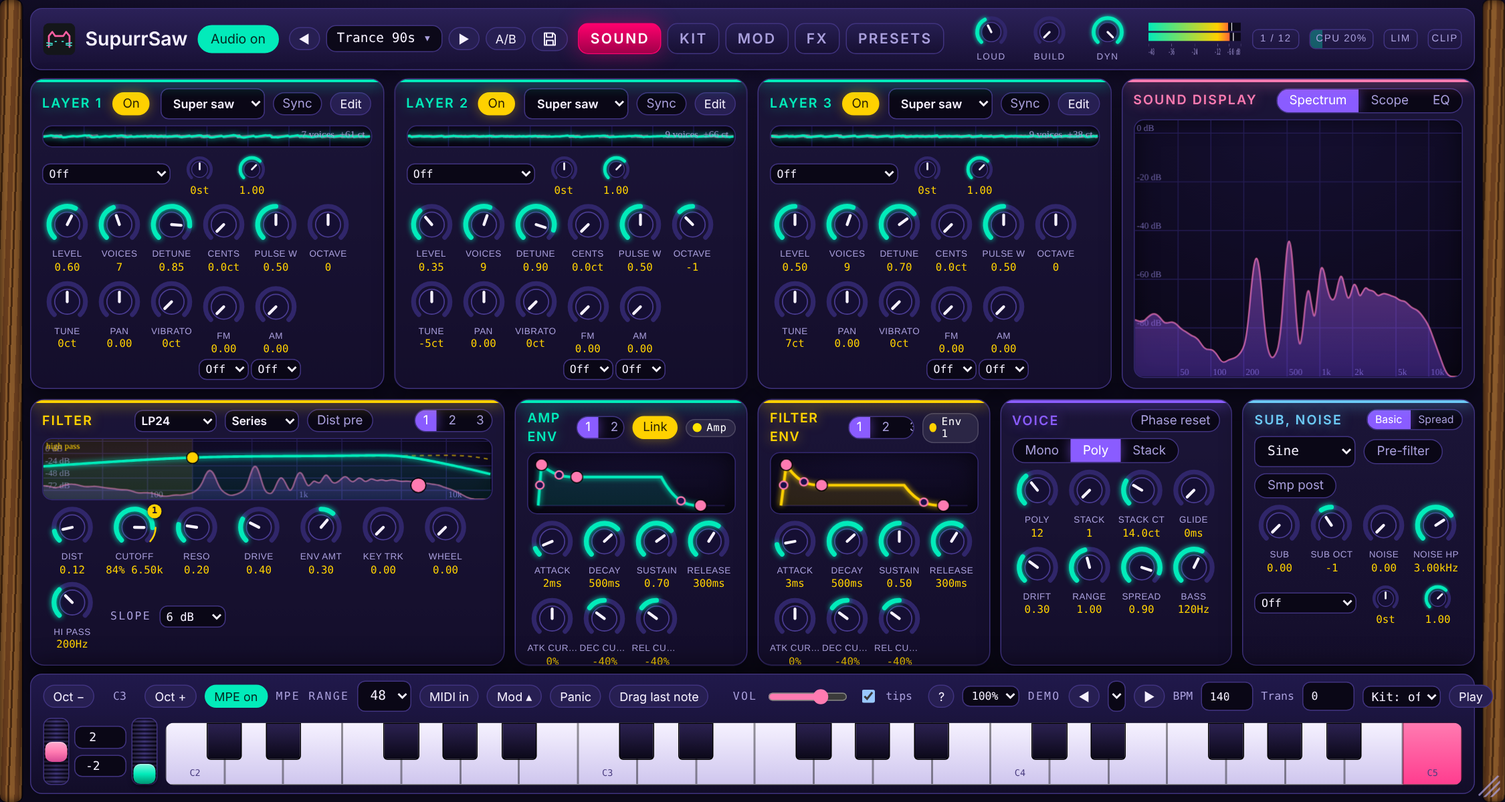
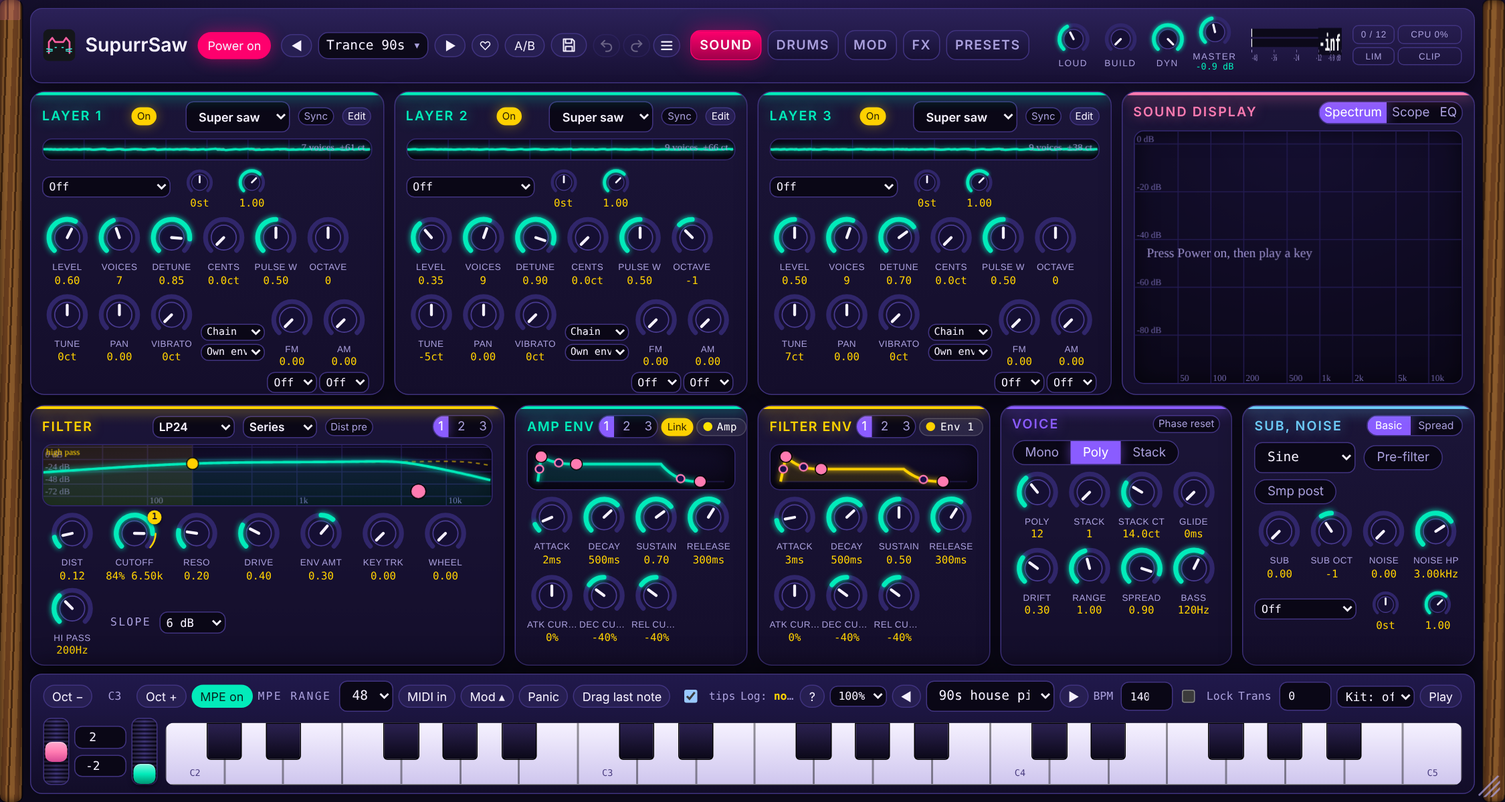
Layer routing: each layer to filter 1, 2, 3, none or the chain, and its own pick of amp envelope; refreshed screenshot
Claude-Session: https://claude.ai/code/session_015F85RWM9RCbLtwwXZANyrz

diff --git a/ui/supurrsaw-playground.html b/ui/supurrsaw-playground.html
@@ -383,7 +383,7 @@ function blep(t, dt) {
   return 0;
 }
 function defaultLayer() {
-  return { on: true, wave: "Off", instrument: "", level: 0.7, voices: 7, detune: 0.4, pwm: 0.5, octave: 0, tune: 0, pan: 0, sync: false, syncSemis: 7, syncEnv: 0, syncLfo: 0, syncKey: 0, syncWheel: 0, cents: 0, lfoPitchCents: 0, fmSrc: 0, fmAmt: 0, amSrc: 0, amAmt: 0, smp: "Off", smpPitch: 0, smpVol: 1 };
+  return { on: true, dest: 0, ampSel: 0, wave: "Off", instrument: "", level: 0.7, voices: 7, detune: 0.4, pwm: 0.5, octave: 0, tune: 0, pan: 0, sync: false, syncSemis: 7, syncEnv: 0, syncLfo: 0, syncKey: 0, syncWheel: 0, cents: 0, lfoPitchCents: 0, fmSrc: 0, fmAmt: 0, amSrc: 0, amAmt: 0, smp: "Off", smpPitch: 0, smpVol: 1 };
 }
 const MX_SRC = ["lfo", "fenv", "aenv", "penv", "whl", "key", "vel", "rnd", "men", "lfo2", "lfo3", "fenv2", "fenv3", "men2", "men3", "prs", "sld", "bnd"];
 const MX_DST = ["pitch", "cut", "res", "drv", "pwm", "det", "pan", "vol", "sy1", "sy2", "sy3", "sub", "nz", "lc", "cut2", "cut3", "rvb", "dly", "drs", "clip", "hpf", "lpf", "wid"];
@@ -822,7 +822,7 @@ function newVoice() {
   return { active: false, note: 60, vel: 1, age: 0, ch: 0, bend: 0, press: 0, slide: 0, phase: [new Float64Array(kMaxSaws), new Float64Array(kMaxSaws), new Float64Array(kMaxSaws)], syncPhase: [0, 0, 0],
     noiseHp: 0, noiseHp2: 0, subPhase: 0, subPh: new Float64Array(5), nzS: new Float64Array(20), drift: new Float64Array(kMaxSaws), driftT: new Float64Array(kMaxSaws), lfoPhase: 0, t: 0, ctr: 0, lfoC: 0, pEnv: 0, pcC: [1, 1, 1], psC: [0, 0, 0], fC: [440, 440, 440], cc: [1000, 1000, 1000], laC: 0.01, lyOut: [0, 0, 0], fmSubPh: 0, gl: 0, stackCents: 0, stackGain: 1, rnd: 0, sh: 0, sh0: 0,
     ax2: [new AuxF(), new AuxF()], lp2: [0, 0], sa: [0, 0], sb: [0, 0], lc2: [0, 0], rs: 1, zs: [null, null, null], zn: [-1, -1, -1], spos: [0, 0, 0], sp: [0, 0, 0, 0], sq: [1, 1, 1, 1], svL: new Float64Array(MX_NS),
-    ax: new Float64Array(8), bw: new Float64Array(40), bwz: new Float64Array(32), bwF: -1, bwN: 0, bwH: false, hcC: 0.9, amp: new Env(), amp2: new Env(), amp3: new Env(), fenv: new Env(), fenv2: new Env(), fenv3: new Env(), fl: [new Filter(), new Filter(), new Filter()], fr: [new Filter(), new Filter(), new Filter()], hpL: 0, hpR: 0 };
+    ax: new Float64Array(8), bw: new Float64Array(40), bwz: new Float64Array(32), bwF: -1, bwN: 0, bwH: false, hcC: 0.9, amp: new Env(), amp2: new Env(), amp3: new Env(), fenv: new Env(), fenv2: new Env(), fenv3: new Env(), fl: [new Filter(), new Filter(), new Filter()], fr: [new Filter(), new Filter(), new Filter()], fl2: [new Filter(), new Filter(), new Filter()], fr2: [new Filter(), new Filter(), new Filter()], ax3: [new AuxF(), new AuxF()], bL: new Float64Array(5), bR: new Float64Array(5), hpL: 0, hpR: 0 };
 }
 function lfoRnd(v) { v.rs = (Math.imul(v.rs, 1664525) + 1013904223) >>> 0; return (v.rs >>> 8) / 16777216 * 2 - 1; }
 function lfoWave(sh, ph, cur, prev) {
@@ -994,6 +994,7 @@ class SupurrEngine {
     for (let ly = 0; ly < kLayers; ly++) { const q = p.layers[ly]; if (q.on === false || q.wave === "Off" || q.level <= 0) continue;
       if (q.fmAmt > 0 && q.fmSrc >= 1 && q.fmSrc <= 3) used[q.fmSrc - 1] = true; if (q.amAmt > 0 && q.amSrc >= 1 && q.amSrc <= 3) used[q.amSrc - 1] = true;
       if ((q.fmAmt > 0 && q.fmSrc === 4) || (q.amAmt > 0 && q.amSrc === 4)) anySub = true; if ((q.fmAmt > 0 && q.fmSrc === 5) || (q.amAmt > 0 && q.amSrc === 5)) anyNz = true; }
+    let usedD = 0; for (let ly = 0; ly < kLayers; ly++) { const lq = p.layers[ly]; if ((lq.dest | 0) !== 0 && lq.on !== false && (lq.wave !== "Off" || lq.smp !== "Off")) usedD |= 1 << (lq.dest | 0); }
     const dk = 1 + p.dist * 14, dnm = 1 / Math.tanh(dk * 0.6), modes = [p.filterMode, p.f2Mode, p.f3Mode], parallel = p.fRoute === 1, post = !!p.smpPost;
     const lfoS = [p.lfoShape, p.lfo2Shape, p.lfo3Shape];
     for (let i = 0; i < n; i++) {
@@ -1024,15 +1025,15 @@ class SupurrEngine {
         for (let k = 0; k < mxl.length; k += 3) md[mxl[k + 1]] += sv[mxl[k]] * mxl[k + 2];
         if (i === n - 1) v.svL.set(sv);
       }
-      let L = 0, R = 0, smL = 0, smR = 0;
+      let L = 0, R = 0, smL = 0, smR = 0; const bL = v.bL, bR = v.bR; if (usedD & 30) { bL.fill(0); bR.fill(0); }
       srcV[0] = 0; srcV[1] = v.lyOut[0]; srcV[2] = v.lyOut[1]; srcV[3] = v.lyOut[2]; srcV[4] = 0; srcV[5] = 0;
       if (anySub) { srcV[4] = Math.sin(2 * kPi * v.fmSubPh); v.fmSubPh += 440 * Math.pow(2, ((v.note - 69) + p.subOctave * 12 + this.bendSt(v)) / 12) * invSr; if (v.fmSubPh >= 1) v.fmSubPh -= 1; }
       if (anyNz) srcV[5] = 2 * this.rnd() - 1;
       for (let ly = 0; ly < kLayers; ly++) {
-        const lp = p.layers[ly], le = link ? 1 : (ly === 0 ? ampE : (ly === 1 ? aE2 : aE3));
+        const lp = p.layers[ly], as_ = lp.ampSel | 0, le = link ? 1 : ((as_ === 0 ? ly : as_ - 1) === 0 ? ampE : ((as_ === 0 ? ly : as_ - 1) === 1 ? aE2 : aE3)), dlt = lp.dest | 0;
         if (ctl) { const pg = (Math.min(1, Math.max(-1, lp.pan + p.lfoPan * lfo + md[6])) + 1) * kPi * 0.25; v.pcC[ly] = Math.cos(pg) * 1.414; v.psC[ly] = Math.sin(pg) * 1.414; }
         if (lp.smp !== "Off") { const d = this.smp[lp.smp]; if (d) { if (ctl) v.sq[ly] = Math.pow(2, (lp.smpPitch + (SMP_KEYED[lp.smp] ? v.note - 60 + v.gl : 0)) / 12); const pos = v.sp[ly], i0 = pos | 0;
-          if (i0 < d.length - 1) { const f = pos - i0, sm = (d[i0] * (1 - f) + d[i0 + 1] * f) * lp.smpVol * le; v.sp[ly] = pos + v.sq[ly]; smL += sm * v.pcC[ly]; smR += sm * v.psC[ly]; } } }
+          if (i0 < d.length - 1) { const f = pos - i0, sm = (d[i0] * (1 - f) + d[i0 + 1] * f) * lp.smpVol * le; v.sp[ly] = pos + v.sq[ly]; if (dlt !== 0 && !post) { bL[dlt] += sm * v.pcC[ly]; bR[dlt] += sm * v.psC[ly]; } else { smL += sm * v.pcC[ly]; smR += sm * v.psC[ly]; } } } }
         if (lp.on === false || lp.wave === "Off" || (lp.level <= 0 && !used[ly])) { v.lyOut[ly] = 0; continue; }
         let f; if (ctl) { let semis = (v.note - 69) + v.gl + lp.octave * 12 + lp.tune * 0.01 + pitchEnv + p.lfoPitch * lfo * 0.3 + lp.lfoPitchCents * 0.01 * lfo + v.stackCents * 0.01 + this.bendSt(v) + p.wheelVib * p.modWheel * 0.01 * lfo + md[0] * 12;
         f = 440 * Math.pow(2, semis / 12); v.fC[ly] = f; } else f = v.fC[ly];
@@ -1089,7 +1090,7 @@ class SupurrEngine {
         }
         v.lyOut[ly] = 0.5 * (lL + lR);
         if (lp.amAmt > 0 && lp.amSrc >= 1 && lp.amSrc <= 5 && lp.amSrc !== ly + 1) { const am = 1 - lp.amAmt + lp.amAmt * srcV[lp.amSrc]; lL *= am; lR *= am; }
-        L += lp.level * lL * v.pcC[ly] * le; R += lp.level * lR * v.psC[ly] * le;
+        if (dlt === 0) { L += lp.level * lL * v.pcC[ly] * le; R += lp.level * lR * v.psC[ly] * le; } else { bL[dlt] += lp.level * lL * v.pcC[ly] * le; bR[dlt] += lp.level * lR * v.psC[ly] * le; }
       }
       const nzl = Math.max(0, p.noiseLevel + md[12] * 0.5), subL = Math.max(0, p.subLevel + md[11] * 0.7), en = link ? 1 : ampE;
       if (nzl > 0) {
@@ -1126,6 +1127,15 @@ class SupurrEngine {
       if (axA[1]) axA[1].set(p.f2LowCut, p.f2HighCut, p.f2Slope, sr); if (axA[2]) axA[2].set(p.f3LowCut, p.f3HighCut, p.f3Slope, sr);
       if (!parallel) { for (let q = 0; q < 3; q++) { if (modes[q] === "Off") continue; st.L = v.fl[q].process(st.L, modes[q], cc[q], rr[q], dd[q], sr); st.R = v.fr[q].process(st.R, modes[q], cc[q], rr[q], dd[q], sr); if (axA[q]) { st.L = axA[q].tick(st.L, 0); st.R = axA[q].tick(st.R, 1); } } }
       else { let al = 0, ar = 0, cn = 0; for (let q = 0; q < 3; q++) { if (modes[q] === "Off") continue; let bl = v.fl[q].process(st.L, modes[q], cc[q], rr[q], dd[q], sr), br2 = v.fr[q].process(st.R, modes[q], cc[q], rr[q], dd[q], sr); if (axA[q]) { bl = axA[q].tick(bl, 0); br2 = axA[q].tick(br2, 1); } al += bl; ar += br2; cn++; } if (cn) { const k = 1 / Math.sqrt(cn); st.L = al * k; st.R = ar * k; } }
+      if (usedD & 30) {   /* layers sent to one filter only (1..3) or past all filters (4) */
+        const dpre = p.distPre && p.dist > 0;
+        for (let q = 1; q <= 3; q++) { if (!(usedD & (1 << q))) continue; let xl = bL[q], xr = bR[q]; const m = modes[q - 1];
+          if (dpre) { xl = Math.tanh(dk * xl + 0.15 * p.dist) * dnm * 0.8; xr = Math.tanh(dk * xr + 0.15 * p.dist) * dnm * 0.8; }
+          if (m !== "Off") { xl = v.fl2[q - 1].process(xl, m, cc[q - 1], rr[q - 1], dd[q - 1], sr); xr = v.fr2[q - 1].process(xr, m, cc[q - 1], rr[q - 1], dd[q - 1], sr);
+            if (q > 1) { const a3 = v.ax3[q - 2]; if (p[q === 2 ? "f2LowCut" : "f3LowCut"] > 5.5 || p[q === 2 ? "f2HighCut" : "f3HighCut"] < 19990) { a3.set(p[q === 2 ? "f2LowCut" : "f3LowCut"], p[q === 2 ? "f2HighCut" : "f3HighCut"], p[q === 2 ? "f2Slope" : "f3Slope"], sr); xl = a3.tick(xl, 0); xr = a3.tick(xr, 1); } } }
+          st.L += xl; st.R += xr; }
+        if (usedD & 16) { let xl = bL[4], xr = bR[4]; if (dpre) { xl = Math.tanh(dk * xl + 0.15 * p.dist) * dnm * 0.8; xr = Math.tanh(dk * xr + 0.15 * p.dist) * dnm * 0.8; } st.L += xl; st.R += xr; }
+      }
       if (post) { st.L += smL; st.R += smR; }
       if (!p.distPre) distort();   /* distortion first, so the low cut that follows also removes the bass the distortion would rebuild */
       const la = v.laC, hpT = modes[0] === "HP" || modes[0] === "HP24", ns = p.auxSlope | 0;
@@ -1522,6 +1532,11 @@ function layerCard(i){
   const sy=el("div");sy.appendChild(el("div","lbl","Hard sync amounts"));sy.style.marginTop="6px";
   sy.appendChild(knobRow([N(p+"syncSemis","Pitch",0,48,0.1,"st","Pitch of the synced oscillator in semitones above the base."),N(p+"syncEnv","Env",0,12,0.1,"st","Filter envelope sweeps the sync pitch by this many semitones."),N(p+"syncLfo","LFO",0,12,0.1,"st","LFO sweeps the sync pitch."),N(p+"syncKey","Key",0,8,0.1,"","Sync pitch changes with the note played."),N(p+"syncWheel","Wheel",0,24,0.1,"st","Mod wheel adds sync pitch.")]));
   c.appendChild(sy);
+  {const rt=el("div");rt.style.cssText="display:flex;flex-direction:column;gap:3px;justify-content:center;align-items:stretch;width:64px;margin-left:2px";
+    const fs=select(p+"dest",[[0,"Chain"],[1,"F1 only"],[2,"F2 only"],[3,"F3 only"],[4,"No filter"]],"Where this layer goes. Chain: through the filters as set on the filter cards (series or parallel), like before. F1, F2 or F3 only: this layer goes through that one filter on its own and skips the others, so two layers can use two different filters. No filter: this layer goes around all filters. A filter that is Off lets the layer pass untouched. Several layers can share a destination. The filter's own Hi pass and Lo pass come along (Filter 1 has the voice wide one, which still applies to everything after).");
+    const es=select(p+"ampSel",[[0,"Own env"],[1,"Env 1"],[2,"Env 2"],[3,"Env 3"]],"Which amp envelope shapes this layer. Own: layer 1 uses envelope 1, layer 2 uses 2, layer 3 uses 3. Pick another to share one envelope between layers or swap them. Only used when Link is off on the amp envelope card; with Link on, envelope 1 shapes everything.");
+    [fs,es].forEach(x=>{x.style.fontSize="10px";x.style.padding="1px";x.style.width="64px";});
+    rt.appendChild(fs);rt.appendChild(es);kr.appendChild(rt);}
   const mkOpts=()=>[[0,"Off"],...[1,2,3].filter(k=>k!==i+1).map(k=>[k,"Layer "+k]),[4,"Sub"],[5,"Noise"]];
   const fsel=select(p+"fmSrc",mkOpts(),"Frequency modulation source: this layer's pitch is pushed up and down by it. The modulator layer must have a wave selected (a layer set to Off does not modulate); level 0 is fine, it stays silent but still modulates. The depth knob next to it must be above 0. Sub is a sine at the sub frequency, Noise is white noise.");
   const asel=select(p+"amSrc",mkOpts(),"Amplitude modulation source: this layer's volume follows it. The source layer needs a wave selected (Off does not modulate) and the depth above 0. Depth 1.00 is ring modulation, lower keeps some of the original.");

diff --git a/core/supurrsaw_core.h b/core/supurrsaw_core.h
@@ -146,6 +146,8 @@ struct LayerParams {
   float amAmt = 0.f;           // 0..1; 1 is ring modulation, lower keeps some of the carrier
   int smp = 0;                 // built-in sample played with this layer (index into kSmpIds, 0 = off), pitch in semitones, volume
   float smpPitch = 0.f, smpVol = 1.f;
+  int dest = 0;                // where this layer goes: 0 = through the filter chain, 1..3 = only filter 1, 2 or 3, 4 = past all filters
+  int ampSel = 0;              // which amp envelope shapes this layer when the envelopes are not linked: 0 = its own (layer 1 -> amp, 2 -> amp 2, 3 -> amp 3), 1..3 = amp, amp 2 or amp 3
   std::shared_ptr<const Sample> sample;
   std::shared_ptr<const SampleSet> sampleSet;   // used by Wave::Sample when set (a multisampled instrument); sample is the single-sample fallback
   std::shared_ptr<const WaveTable> table;   // used by Wave::Custom (an imported or drawn cycle, played as a super stack)
@@ -464,7 +466,7 @@ struct Voice {
   int ctr = 0; double lfoC = 0, pEnv = 0, pcC[kLayers] = {1, 1, 1}, psC[kLayers] = {0, 0, 0}, fC[kLayers] = {440, 440, 440}, cc[3] = {1000, 1000, 1000}, laC = 0.01, hcC = 0.9;
   double lp2[2] = {0, 0}, sa[2] = {0, 0}, sb[2] = {0, 0}, lc2[2] = {0, 0}; uint32_t rs = 1;
   double sp[4] = {0, 0, 0, 0}, sq[4] = {1, 1, 1, 1}, ax[8] = {0, 0, 0, 0, 0, 0, 0, 0}, svL[kMxSrc] = {}, bw[40] = {}, bwz[32] = {}, bwF = -1.0; int bwN = 0; bool bwH = false; AuxF ax2[2];
-  EnvState amp, amp2, amp3, fenv, fenv2, fenv3; Filter fl[3], fr[3]; double hpL = 0, hpR = 0; bool oneShot = false;
+  EnvState amp, amp2, amp3, fenv, fenv2, fenv3; Filter fl[3], fr[3], fl2[3], fr2[3]; AuxF ax3[2]; double bL[5] = {}, bR[5] = {}; double hpL = 0, hpR = 0; bool oneShot = false;
   double lfoRnd() { rs = rs * 1664525u + 1013904223u; return (double)(rs >> 8) / 16777216.0 * 2.0 - 1.0; }
 };
 
@@ -1017,6 +1019,7 @@ class Engine {
       const int nv = std::max(1, std::min(kMaxSaws, q.voices)); const double sideFade = q.cents > 0.f ? 1.0 : std::min(1.0, q.detune * 20.0), norm = 1.0 / (1.0 + (double)(nv - 1) * 0.62 * sideFade);
       for (int j = 0; j < nv; ++j) { const double sp = sawSpread(j, nv); const bool centre = (nv % 2 == 1 && j == nv / 2); double g = centre ? 1.0 : 0.62 * sideFade; g *= norm;
         const double ang = (sp * p.spread + 1.0) * kPiD * 0.25; tSp[ly][j] = sp; tOn[ly][j] = g > 0.0; tCl[ly][j] = g * std::cos(ang) * 1.414; tCr[ly][j] = g * std::sin(ang) * 1.414; } }
+    int usedD = 0; for (int ly = 0; ly < kLayers; ++ly) { const LayerParams& q = p.layer[ly]; if (q.dest != 0 && q.on && (q.wave != Wave::Off || q.smp != 0)) usedD |= 1 << std::max(0, std::min(4, q.dest)); }
     const double dk = 1.0 + p.dist * 14.0, dnm = 1.0 / std::tanh(dk * 0.6);
     const FilterMode modes[3] = {p.filterMode, p.f2Mode, p.f3Mode}; const bool parallel = p.fRoute == 1, post = p.smpPost; const int lfoS[3] = {p.lfoShape, p.lfo2Shape, p.lfo3Shape};
     const double rr[3] = {0, p.f2Res, p.f3Res}, dd[3] = {0, p.f2Drv, p.f3Drv}; double srcV[6];
@@ -1057,17 +1060,17 @@ class Engine {
         for (int k = 0; k < mxn; ++k) md[mxd[k]] += sv[mxs[k]] * mxv[k];
         if (i == n - 1) for (int k = 0; k < kMxSrc; ++k) v.svL[k] = sv[k];
       }
-      double L = 0.0, R = 0.0, smL = 0.0, smR = 0.0;
+      double L = 0.0, R = 0.0, smL = 0.0, smR = 0.0; if (usedD & 30) { for (int q = 0; q < 5; ++q) v.bL[q] = v.bR[q] = 0.0; }
       srcV[0] = 0.0; srcV[1] = v.lyOut[0]; srcV[2] = v.lyOut[1]; srcV[3] = v.lyOut[2]; srcV[4] = 0.0; srcV[5] = 0.0;
       if (anyFmSub) { srcV[4] = std::sin(2.0 * kPiD * v.fmSubPh); v.fmSubPh += 440.0 * std::pow(2.0, ((double)(v.note - 69) + (double)p.subOctave * 12.0 + bendSt(v)) / 12.0) * invSr; if (v.fmSubPh >= 1.0) v.fmSubPh -= 1.0; }
       if (anyFmNz) srcV[5] = 2.0 * rng.next() - 1.0;
       for (int ly = 0; ly < kLayers; ++ly) {
-        const LayerParams& lp = p.layer[ly]; const double le = link ? 1.0 : (ly == 0 ? ampE : (ly == 1 ? aE2 : aE3));
+        const LayerParams& lp = p.layer[ly]; const int asel = lp.ampSel == 0 ? ly : std::max(0, std::min(2, lp.ampSel - 1)), dlt = std::max(0, std::min(4, lp.dest)); const double le = link ? 1.0 : (asel == 0 ? ampE : (asel == 1 ? aE2 : aE3));
         if (ctl) { const double pg = (std::min(1.0, std::max(-1.0, lp.pan + p.lfoPan * lfo + md[6])) + 1.0) * kPiD * 0.25; v.pcC[ly] = std::cos(pg) * 1.414; v.psC[ly] = std::sin(pg) * 1.414; }
         if (lp.smp != 0 && bank) { const std::vector<float>& d = bank->d[lp.smp]; if (!d.empty()) {
           if (ctl) v.sq[ly] = std::pow(2.0, (lp.smpPitch + (smpKeyed(lp.smp) ? v.note - 60 + v.gl : 0.0)) / 12.0);
           const double pos = v.sp[ly]; const int i0 = (int)pos;
-          if (i0 < (int)d.size() - 1) { const double f = pos - i0, sm = (d[i0] * (1.0 - f) + d[i0 + 1] * f) * lp.smpVol * le; v.sp[ly] = pos + v.sq[ly]; smL += sm * v.pcC[ly]; smR += sm * v.psC[ly]; } } }
+          if (i0 < (int)d.size() - 1) { const double f = pos - i0, sm = (d[i0] * (1.0 - f) + d[i0 + 1] * f) * lp.smpVol * le; v.sp[ly] = pos + v.sq[ly]; if (dlt != 0 && !post) { v.bL[dlt] += sm * v.pcC[ly]; v.bR[dlt] += sm * v.psC[ly]; } else { smL += sm * v.pcC[ly]; smR += sm * v.psC[ly]; } } } }
         if (!lp.on || lp.wave == Wave::Off || (lp.level <= 0.f && !usedAsSrc[ly])) { v.lyOut[ly] = 0.0; continue; }
         double f;
         if (ctl) { const double semis = (double)(v.note - 69) + v.gl + (double)lp.octave * 12.0 + lp.tune * 0.01 + pitchEnv + p.lfoPitch * lfo * 0.3 + lp.lfoPitchCents * 0.01 * lfo + v.stackCents * 0.01 + bendSt(v) + p.wheelVib * p.modWheel * 0.01 * lfo + md[0] * 12.0;
@@ -1150,7 +1153,7 @@ class Engine {
         }
         v.lyOut[ly] = 0.5 * (lL + lR);
         if (lp.amAmt > 0.f && lp.amSrc >= 1 && lp.amSrc <= 5 && lp.amSrc != ly + 1) { const double am = 1.0 - lp.amAmt + lp.amAmt * srcV[lp.amSrc]; lL *= am; lR *= am; }
-        L += lp.level * lL * v.pcC[ly] * le; R += lp.level * lR * v.psC[ly] * le;
+        if (dlt == 0) { L += lp.level * lL * v.pcC[ly] * le; R += lp.level * lR * v.psC[ly] * le; } else { v.bL[dlt] += lp.level * lL * v.pcC[ly] * le; v.bR[dlt] += lp.level * lR * v.psC[ly] * le; }
       }
       const double nzl = std::max(0.0, p.noiseLevel + md[12] * 0.5), subL = std::max(0.0, p.subLevel + md[11] * 0.7), en = link ? 1.0 : ampE;
       if (nzl > 0.0) {  // white noise, high-passed (two poles) so only the top end is added
@@ -1191,6 +1194,16 @@ class Engine {
       if (axA[1]) axA[1]->set(p.f2LowCut, p.f2HighCut, p.f2Slope, sr); if (axA[2]) axA[2]->set(p.f3LowCut, p.f3HighCut, p.f3Slope, sr);
       if (!parallel) { for (int q = 0; q < 3; ++q) { if (modes[q] == FilterMode::Off) continue; L = v.fl[q].process(L, modes[q], v.cc[q], rrr[q], ddd[q], sr); R = v.fr[q].process(R, modes[q], v.cc[q], rrr[q], ddd[q], sr); if (axA[q]) { L = axA[q]->tick(L, 0); R = axA[q]->tick(R, 1); } } }
       else { double al = 0.0, ar = 0.0; int cn = 0; for (int q = 0; q < 3; ++q) { if (modes[q] == FilterMode::Off) continue; double bl = v.fl[q].process(L, modes[q], v.cc[q], rrr[q], ddd[q], sr), brr = v.fr[q].process(R, modes[q], v.cc[q], rrr[q], ddd[q], sr); if (axA[q]) { bl = axA[q]->tick(bl, 0); brr = axA[q]->tick(brr, 1); } al += bl; ar += brr; ++cn; } if (cn) { const double k = 1.0 / std::sqrt((double)cn); L = al * k; R = ar * k; } }
+      if (usedD & 30) {   // layers sent to one filter only (1..3) or past all filters (4)
+        const bool dpre = p.distPre && p.dist > 0.f;
+        for (int q = 1; q <= 3; ++q) { if (!(usedD & (1 << q))) continue; double xl = v.bL[q], xr = v.bR[q]; const FilterMode m = modes[q - 1];
+          if (dpre) { xl = std::tanh(dk * xl + 0.15 * p.dist) * dnm * 0.8; xr = std::tanh(dk * xr + 0.15 * p.dist) * dnm * 0.8; }
+          if (m != FilterMode::Off) { xl = v.fl2[q - 1].process(xl, m, v.cc[q - 1], rrr[q - 1], ddd[q - 1], sr); xr = v.fr2[q - 1].process(xr, m, v.cc[q - 1], rrr[q - 1], ddd[q - 1], sr);
+            if (q > 1) { const float lo = q == 2 ? p.f2LowCut : p.f3LowCut, hi = q == 2 ? p.f2HighCut : p.f3HighCut; const int sl = q == 2 ? p.f2Slope : p.f3Slope;
+              if (lo > 5.5f || hi < 19990.f) { AuxF& a3 = v.ax3[q - 2]; a3.set(lo, hi, sl, sr); xl = a3.tick(xl, 0); xr = a3.tick(xr, 1); } } }
+          L += xl; R += xr; }
+        if (usedD & 16) { double xl = v.bL[4], xr = v.bR[4]; if (dpre) { xl = std::tanh(dk * xl + 0.15 * p.dist) * dnm * 0.8; xr = std::tanh(dk * xr + 0.15 * p.dist) * dnm * 0.8; } L += xl; R += xr; }
+      }
       if (post) { L += smL; R += smR; }
       if (!p.distPre) distort();   // distortion first, so the low cut that follows also removes the bass the distortion would rebuild
       { // high pass (and, next to a highpass filter, a low pass) on the whole voice

diff --git a/tools/dump_presets.cpp b/tools/dump_presets.cpp
@@ -20,7 +20,7 @@ int main() {
     for (int l = 0; l < kLayers; ++l) { const LayerParams& a = p.layer[l];
       std::printf("%s{\"wave\":\"%s\",\"level\":%g,\"voices\":%d,\"detune\":%g,\"pwm\":%g,\"octave\":%d,\"tune\":%g,\"pan\":%g,\"sync\":%s,\"syncSemis\":%g,\"syncEnv\":%g,\"syncLfo\":%g,\"syncKey\":%g,\"syncWheel\":%g,\"cents\":%g,\"lfoPitchCents\":%g,\"fmSrc\":%d,\"fmAmt\":%g,\"amSrc\":%d,\"amAmt\":%g",
         l ? "," : "", W[(int)a.wave], a.level, a.voices, a.detune, a.pwm, a.octave, a.tune, a.pan, a.sync ? "true" : "false", a.syncSemis, a.syncEnv, a.syncLfo, a.syncKey, a.syncWheel, a.cents, a.lfoPitchCents, a.fmSrc, a.fmAmt, a.amSrc, a.amAmt);
-      std::printf(",\"smp\":\"%s\",\"smpPitch\":%g,\"smpVol\":%g}", kSmpIds[a.smp], a.smpPitch, a.smpVol); }
+      std::printf(",\"smp\":\"%s\",\"smpPitch\":%g,\"smpVol\":%g,\"dest\":%d,\"ampSel\":%d}", kSmpIds[a.smp], a.smpPitch, a.smpVol, a.dest, a.ampSel); }
     std::printf("],\"p\":{\"subLevel\":%g,\"subWave\":\"%s\",\"subOctave\":%d,\"subPreFilter\":%s,\"mono\":%s,\"glide\":%g,\"filterMode\":\"%s\",\"cutoff\":%g,\"reso\":%g,\"drive\":%g,\"envAmt\":%g,\"keyTrack\":%g,\"lowCutHz\":%g,\"dist\":%g,\"distPre\":%s,\"noiseLevel\":%g,\"noiseHpHz\":%g,",
       p.subLevel, W[(int)p.subWave], p.subOctave, p.subPreFilter ? "true" : "false", p.mono ? "true" : "false", p.glide, FM(p.filterMode), p.cutoff, p.reso, p.drive, p.envAmt, p.keyTrack, p.lowCutHz, p.dist, p.distPre ? "true" : "false", p.noiseLevel, p.noiseHpHz);
     std::printf("\"ampCA\":%g,\"ampCD\":%g,\"ampCR\":%g,\"fenvCA\":%g,\"fenvCD\":%g,\"fenvCR\":%g,\"ampA\":%g,\"ampD\":%g,\"ampS\":%g,\"ampR\":%g,\"fenvA\":%g,\"fenvD\":%g,\"fenvS\":%g,\"fenvR\":%g,", p.amp.ca, p.amp.cd, p.amp.cr, p.fenv.ca, p.fenv.cd, p.fenv.cr, p.amp.a, p.amp.d, p.amp.s, p.amp.r, p.fenv.a, p.fenv.d, p.fenv.s, p.fenv.r);
@@ -32,7 +32,7 @@ int main() {
       p.dmLow, p.dmHigh, p.dynMix, p.chorusDelay, p.chorusWidth, p.delayDamp, p.delayPing, p.reverbPre, p.reverbDamp, p.optoGain, p.optoRel, p.ottLow, p.ottMid, p.ottHigh, p.ottTime, p.sqzAtk, p.sqzRel, p.sqzMakeup, p.menvTime, p.menvLoop ? "true" : "false", p.menvInv ? "true" : "false", p.lfoDepth, p.lfoFade, p.lfoStart, p.drvDrive, p.drvXs, p.drvFuzz, p.drvMix, p.eq1On ? "true" : "false", p.eq1F, p.eq2On ? "true" : "false", p.eq2F, p.eq2G, p.eq3On ? "true" : "false", p.eq3F, p.eq3G, p.eq3Q, p.eq4On ? "true" : "false", p.eq4F, p.eq4G, p.eq4Q, p.eq5On ? "true" : "false", p.eq5F, p.eq5G, p.eq6On ? "true" : "false", p.eq6F);
     { // keys added with the big build: three LFOs, three drawn envelopes, per layer envelopes, filters 2 and 3, samples, crusher, width, build macro, EQ dynamics
       auto F = [&](const char* k, double v) { std::printf(",\"%s\":%g", k, v); }; auto Bo = [&](const char* k, bool v) { std::printf(",\"%s\":%s", k, B(v)); }; auto St = [&](const char* k, const char* v) { std::printf(",\"%s\":\"%s\"", k, v); };
-      F("highCutHz", p.highCutHz); F("auxSlope", p.auxSlope); Bo("ampLink", p.ampLink); F("fRoute", p.fRoute); F("build", p.build); F("modFxType", p.modFxType); F("chorusFb", p.chorusFb);
+      F("highCutHz", p.highCutHz); F("auxSlope", p.auxSlope); F("f2LowCut", p.f2LowCut); F("f2HighCut", p.f2HighCut); F("f2Slope", p.f2Slope); F("f3LowCut", p.f3LowCut); F("f3HighCut", p.f3HighCut); F("f3Slope", p.f3Slope); Bo("ampLink", p.ampLink); F("fRoute", p.fRoute); F("build", p.build); F("modFxType", p.modFxType); F("chorusFb", p.chorusFb);
       F("crushBits", p.crushBits); F("crushRate", p.crushRate); F("crushMix", p.crushMix); F("widMid", p.widMid); F("widHi", p.widHi); F("msMid", p.msMid); F("msSide", p.msSide);
       St("f2Mode", FM(p.f2Mode)); F("f2Cut", p.f2Cut); F("f2Res", p.f2Res); F("f2Drv", p.f2Drv); F("f2Env", p.f2Env); F("f2Key", p.f2Key); F("f2Wheel", p.f2Wheel); F("f3Wheel", p.f3Wheel);
       St("f3Mode", FM(p.f3Mode)); F("f3Cut", p.f3Cut); F("f3Res", p.f3Res); F("f3Drv", p.f3Drv); F("f3Env", p.f3Env); F("f3Key", p.f3Key);

diff --git a/tools/presets_test.cpp b/tools/presets_test.cpp
@@ -407,6 +407,17 @@ int main(int argc, char** argv) {
     std::printf("DYN regrowth below a 1.5 kHz hi pass: dyn off %.3e, dyn on %.3e\n", mOff, mOn); CHECK(mOn < 1e-6 || mOn < mOff * 100.0);
     std::printf("per filter hi/lo pass and post DYN hi pass behave\n");
   }
+  { // layer routing: each layer can go to one filter only, past all filters, or through the chain; and pick its amp envelope
+    auto rb = [&](const Params& q) { return brightness(runP(q)); };
+    auto mk = [&]() { Params q = baseP(); q.filterMode = FilterMode::LP24; q.cutoff = 18000.f; q.reso = 0.f; q.drive = 0.f; q.envAmt = 0.f; q.noiseLevel = 0.f; q.subLevel = 0.f; q.chorusMix = q.delayMix = q.reverbMix = 0.f; q.dmMix = 0.f; q.f2Mode = FilterMode::LP24; q.f2Cut = 300.f; q.f2Res = 0.f; return q; };
+    Params chain = mk(); Params l1f1 = chain; l1f1.layer[0].dest = 1; Params l1f2 = chain; l1f2.layer[0].dest = 2; Params byp = chain; byp.layer[0].dest = 4;
+    double bc = rb(chain), b1 = rb(l1f1), b2 = rb(l1f2), bb = rb(byp);
+    std::printf("layer routing brightness: chain %.4f, filter 1 only %.4f, filter 2 only %.4f, past filters %.4f\n", bc, b1, b2, bb);
+    CHECK(b1 > bc * 1.5); CHECK(bb > bc * 1.5); CHECK(std::fabs(b2 - bc) < bc * 0.05 || b2 < b1); CHECK(std::isfinite(b1) && std::isfinite(b2) && std::isfinite(bb));
+    { Params q = mk(); q.layer[0].dest = 0; CHECK(relDiff(runP(chain), runP(q)) == 0.0); }   // default keeps the old sound bit for bit
+    { Params a = mk(); a.ampLink = false; a.amp.d = 0.05f; a.amp.s = 0.f; a.amp2.d = 1.5f; a.amp2.s = 1.f; Params b = a; b.layer[0].ampSel = 2; CHECK(relDiff(runP(a), runP(b)) > 0.01); Params c = a; c.layer[0].ampSel = 1; CHECK(relDiff(runP(a), runP(c)) == 0.0); }
+    std::printf("layer routing and per-layer amp envelope behave\n");
+  }
   { // sub and noise: voices, detune and width. Defaults change nothing; width makes left and right differ
     auto stereoDiff = [&](const Params& q) { std::vector<float> R; auto L = runP(q, &R); double d = 0, e = 1e-12; for (size_t i = 0; i < L.size() && i < R.size(); ++i) { d += (double)(L[i] - R[i]) * (L[i] - R[i]); e += (double)L[i] * L[i]; } return d / e; };
     Params sb = baseP(); sb.layer[0].level = 0.f; sb.layer[1].level = 0.f; sb.layer[2].level = 0.f; sb.subLevel = 0.8f; sb.noiseLevel = 0.f; sb.chorusMix = sb.delayMix = sb.reverbMix = 0.f; sb.dmMix = 0.f; sb.subPreFilter = true;

diff --git a/plugin/Source/ParamBridge.h b/plugin/Source/ParamBridge.h
@@ -171,6 +171,8 @@ inline bool setLayerKey(supurr::LayerParams& l, const std::string& k, const juce
     if (k == "smp")        { l.smp = smpFrom(v.toString()); return true; }
     if (k == "smpPitch")   { l.smpPitch = asFR(v, -24.f, 24.f); return true; }
     if (k == "smpVol")     { l.smpVol = asFR(v, 0.f, 1.5f); return true; }
+    if (k == "dest")       { l.dest = std::max(0, std::min(4, asI(v))); return true; }
+    if (k == "ampSel")     { l.ampSel = std::max(0, std::min(3, asI(v))); return true; }
     if (k == "cycle")      return true;   // handled through the "cyc" message
     if (k == "instrument") return true;   // handled by the processor (it loads the sample set)
     return false;
